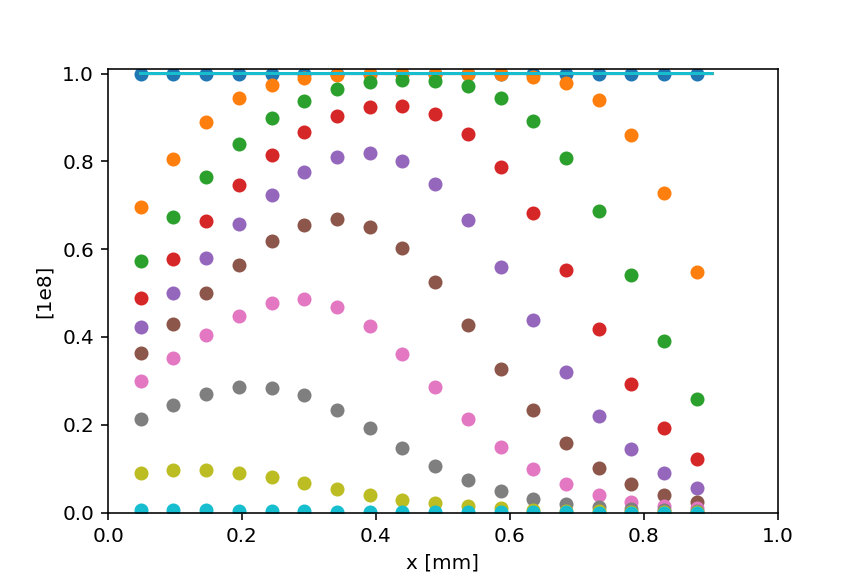
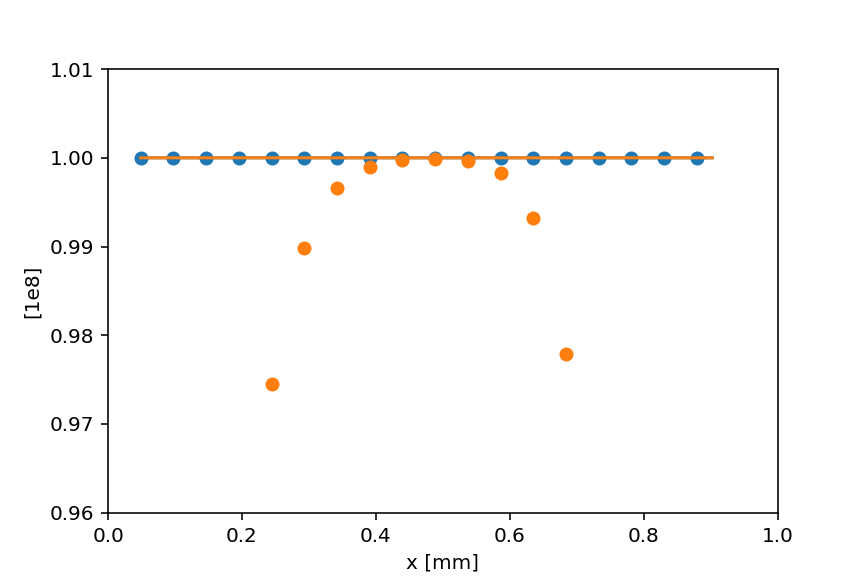
progress, need rhs to return derivative in time units

diff --git a/bte_1d_fluxlearn.py b/bte_1d_fluxlearn.py
@@ -297,7 +297,7 @@ Nn = n0.shape[0]
 #print(c)
 nepoch=10 #I'm defining each epoch to be the period I'm running parallel integration alongside BTE solutions. Comparison happens at the epoch end. 
 time_slice =np.linspace(100,13000,nepoch,dtype=int) #these i values are the epoch end points, so the first epoch runs 
-#time_slice = time_slice[0:10]
+time_slice = time_slice[0:2]
 #from i=0 to i=100, the next i=100 to i=590
 #Notably I reused the list time_slice here. Previously it was returned by the loadGinterpolants(1) call and had a facile step of 1, here its being reused to define the epoch stepping
 
@@ -320,25 +320,33 @@ Hp = spread/sum(spread)
 i=0
 Navg_0 = 1. #Tavg at start of epoch, 0.1 is just this dataset and needs updated
 t_0 = 0.
-
+print('ts',ts[time_slice])
 colormap = plt.get_cmap('tab10', nepoch)
 colors = [colormap(k) for k in range(nepoch)] #when plotting exact vs approx curves, each epoch has own color from cmap
 for t, Cs, col in zip(ts[time_slice],nflux[time_slice],colors):#[0:1]: 10 elements to loop, epochs
     Navg = np.dot(H.T,decompose_field(xcenter,Cs[:Nn].T[Linert:Mactive])) #Ts is the BTE solution and this operation with H measures the average T at the epoch start
-    #print(rhs(lTimes[3],c0))
-    if False:
-        sol = solve_ivp(rhs, (t_0, t), c0, method='RK45', atol=1e-8, rtol=1e-6, max_step= (t-t_0)/100.)
+    #print(rhs(t_0,c0))
+    #print(rhs(t,c0))
+    if True:
+        sol = solve_ivp(rhs, (t_0, t), c0, method='RK45', atol=1e-8, rtol=1e-6, max_step= (t-t_0)/10.)
+        print('t',sol.t)
+        print('y',sol.y[:, -1])
         c1 = sol.y[:, -1]
     else:
-      while lTimes[i]<t: #lTimes was recorded during formation of the propagators, this is the within-epoch integration loop that runs until the time value of the propagator reaches t, the epoch end
+      t_i = t_0 #(t-t_0)/10.+t_0
+      dt = (t-t_0)/10.
+      while t_i<t: #lTimes[i]<t: #lTimes was recorded during formation of the propagators, this is the within-epoch integration loop that runs until the time value of the propagator reaches t, the epoch end
         '''if i<7: #debugging
             print(lAc[i])
         else:
             break'''
         #The process is as such, the prior solution n0 and f0 are stacked and multiplied with current Ac (i'th) to provide dc(:=c1-c0)
-        dc = lAc[i]@c0
+        #dc = rhs(lTimes[i],c0) #lAc[i]@c0
+        dc = rhs(t_i,c0)
         #however this difference is normalized by the minor stride interval (first deriv appx), but we are counting by major strides, so the difference, dc, needs to be scaled by major_stride to predict the increase of c2 over c1 when major_stride had elapsed
-        c1=c0+ major_stride*dc#*1.06 #e.g. +12*dc
+        #This won't run correctly, it works when multiplied by the stride size in index space
+        #dc and rhs need to return in time space or be normalized by time step if SVD is impaired
+        c1=c0+ dc*dt #major_stride*dc#*1.06 #e.g. +12*dc
         #print(c2)
         if False: #initial attempt to implement corrector. not sure why I was trying to do it within the epoch when I think by design I won't know Tavg except at epoch boundaries. I was having initial difficulties that I was attributing to integration errors and falsely though correctors were needed already. Final working prototype left the final line (c2+=Hp*(y-Hf)) commented and unused. but this workflow essential shows the chatGPT suggested process of distributing the error back into the coefficients by some operator Hp.
             Hf = np.dot(H.T,c1[Nn,:])
@@ -405,7 +413,7 @@ for t, Cs, col in zip(ts[time_slice],nflux[time_slice],colors):#[0:1]: 10 elemen
     t_0 = t
     #break
 plt.xlim(0.,L)
-plt.ylim(0.,1.01)
+plt.ylim(0.96,1.01)
 plt.xlabel(f"x [{Lunits}]")
 plt.ylabel(f"{Nunits}")
 plt.savefig('bte_predictor_performance.png')
